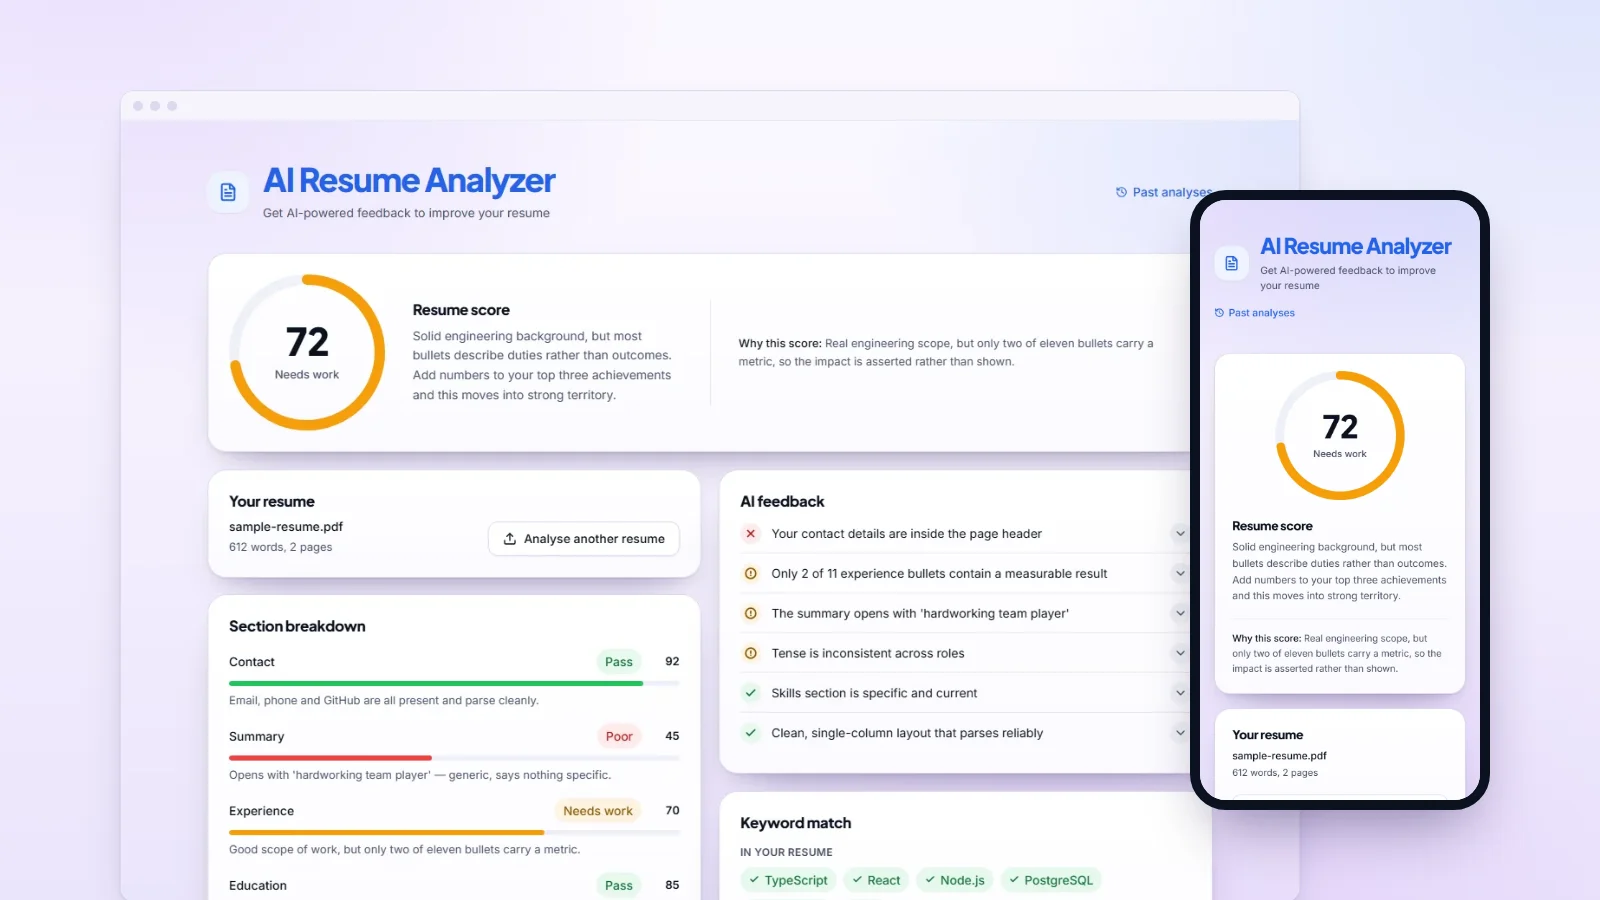
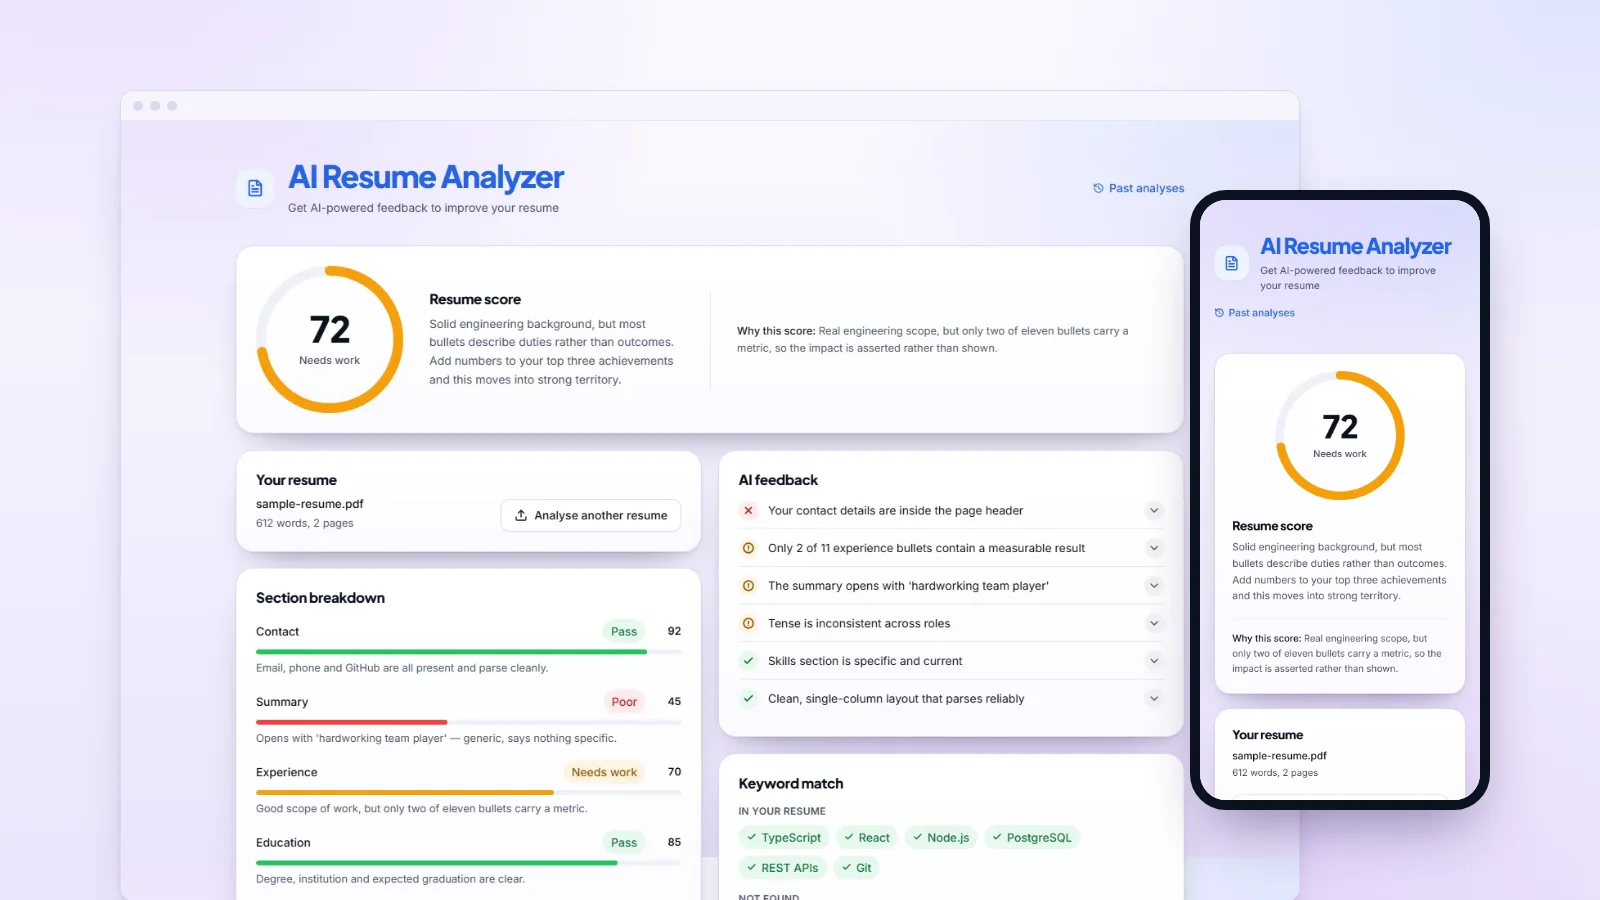
Build the cover from a full-page results capture
The 900px viewport shot had to be scaled up to fill the cover's window,
which pushed "Past analyses" under the phone. A full-page capture of the
demo report, as the original cover used, keeps the old scale exactly.
capture.mjs gains a cover mode that takes just that shot.

diff --git a/scripts/screenshots/README.md b/scripts/screenshots/README.md
@@ -36,8 +36,14 @@ node -e "require('sharp')('scripts/screenshots/out/05-results-score-desktop.png'
 
 ## 3. Regenerate the cover
 
+The browser window shows a full-page capture of `/analyze/demo`, kept here as `13-results-full-page-desktop.webp`, so the cover keeps its original scale. The phone shows `public/projects/ai-resume-analyzer/05-results-score-mobile.webp`. To refresh the desktop half, capture it and convert it as above (output `scripts/screenshots/13-results-full-page-desktop.webp`):
+
+```sh
+node scripts/screenshots/capture.mjs cover
+```
+
+Then render the cover to `public/projects/ai-resume-analyzer/cover.webp`:
+
 ```sh
 node scripts/screenshots/compose.mjs
 ```
-
-This places `05-results-score-desktop.webp` in a browser window with `05-results-score-mobile.webp` in a phone beside it, then writes `public/projects/ai-resume-analyzer/cover.webp`. Run it after replacing either screenshot.
